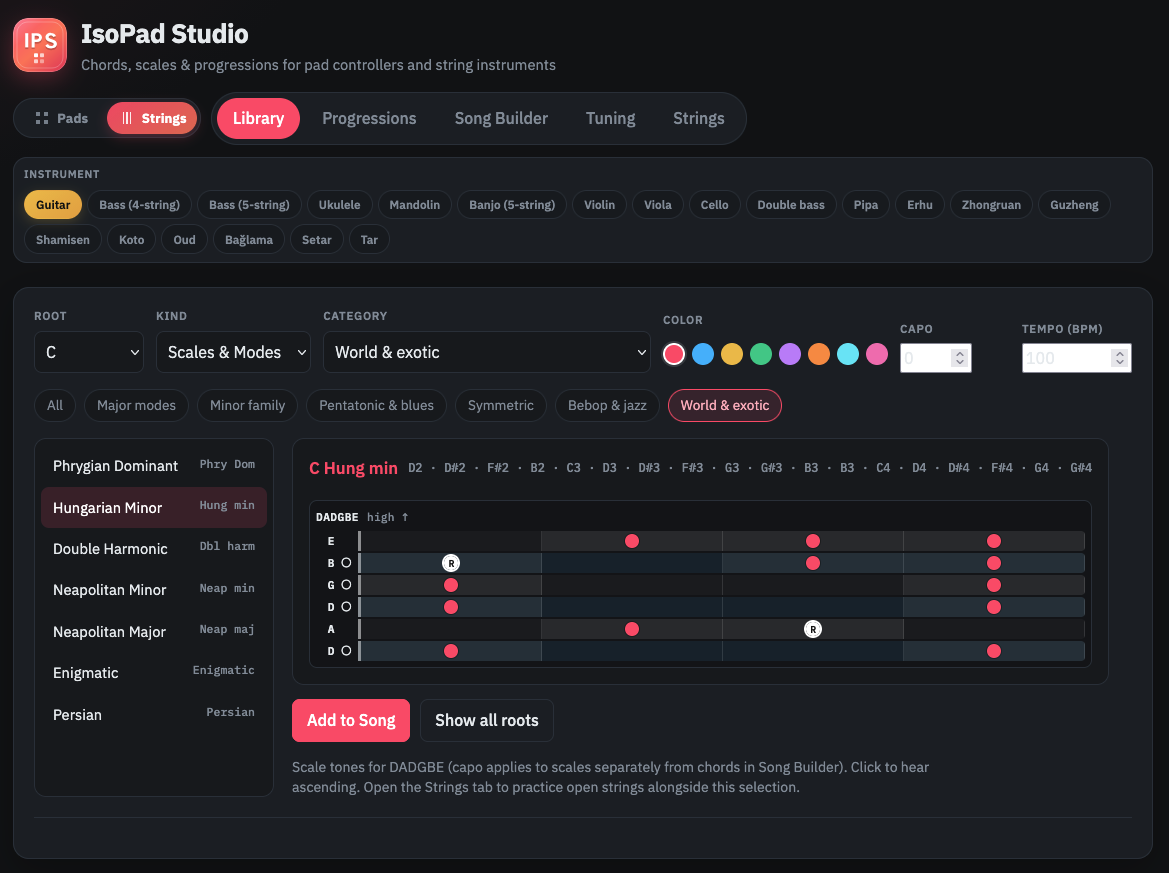
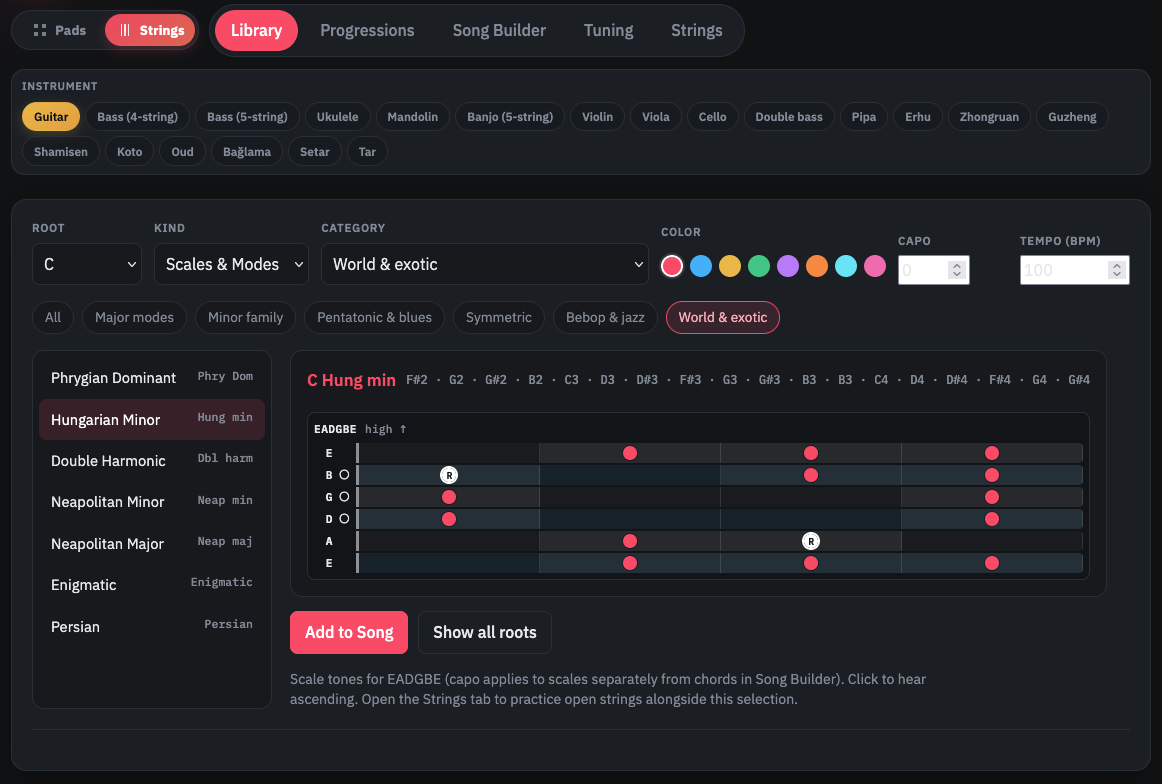
docs: Replace drop-D screen

diff --git a/README.md b/README.md
@@ -42,9 +42,9 @@ For architecture, data shapes, UI contracts, and agent instructions, see **[SPEC
 
 ![C Hungarian Minor on a 4×4 pad grid in the Library](screenshots/readme-pads-4x4.png)
 
-![C Hungarian Minor on 6-string guitar in the Library](screenshots/readme-guitar.png)
+![C Hungarian Minor on 6-string guitar (standard EADGBE) in the Library](screenshots/readme-guitar.png)
 
-Same scale on **Pads · 4×4**, then **Strings · Guitar** — pick a formula, see the chart, click to hear it. More walkthroughs: **[User manual](MANUAL.md)**.
+Same scale on **Pads · 4×4**, then **Strings · Guitar** (standard tuning) — pick a formula, see the chart, click to hear it. More walkthroughs: **[User manual](MANUAL.md)**.
 
 ## Features
 